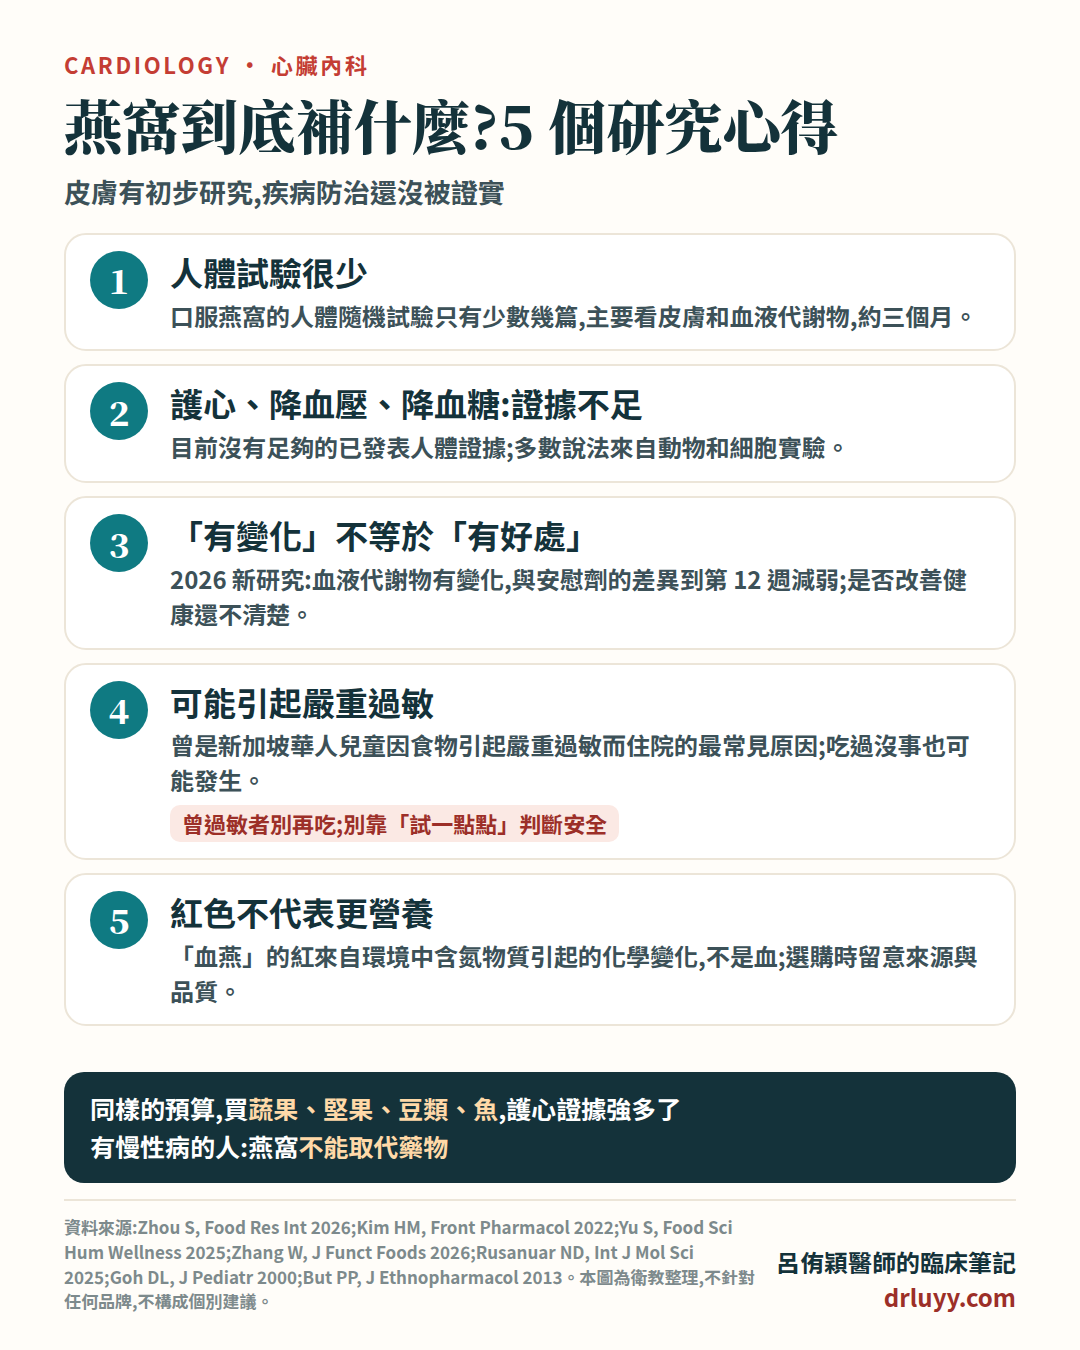
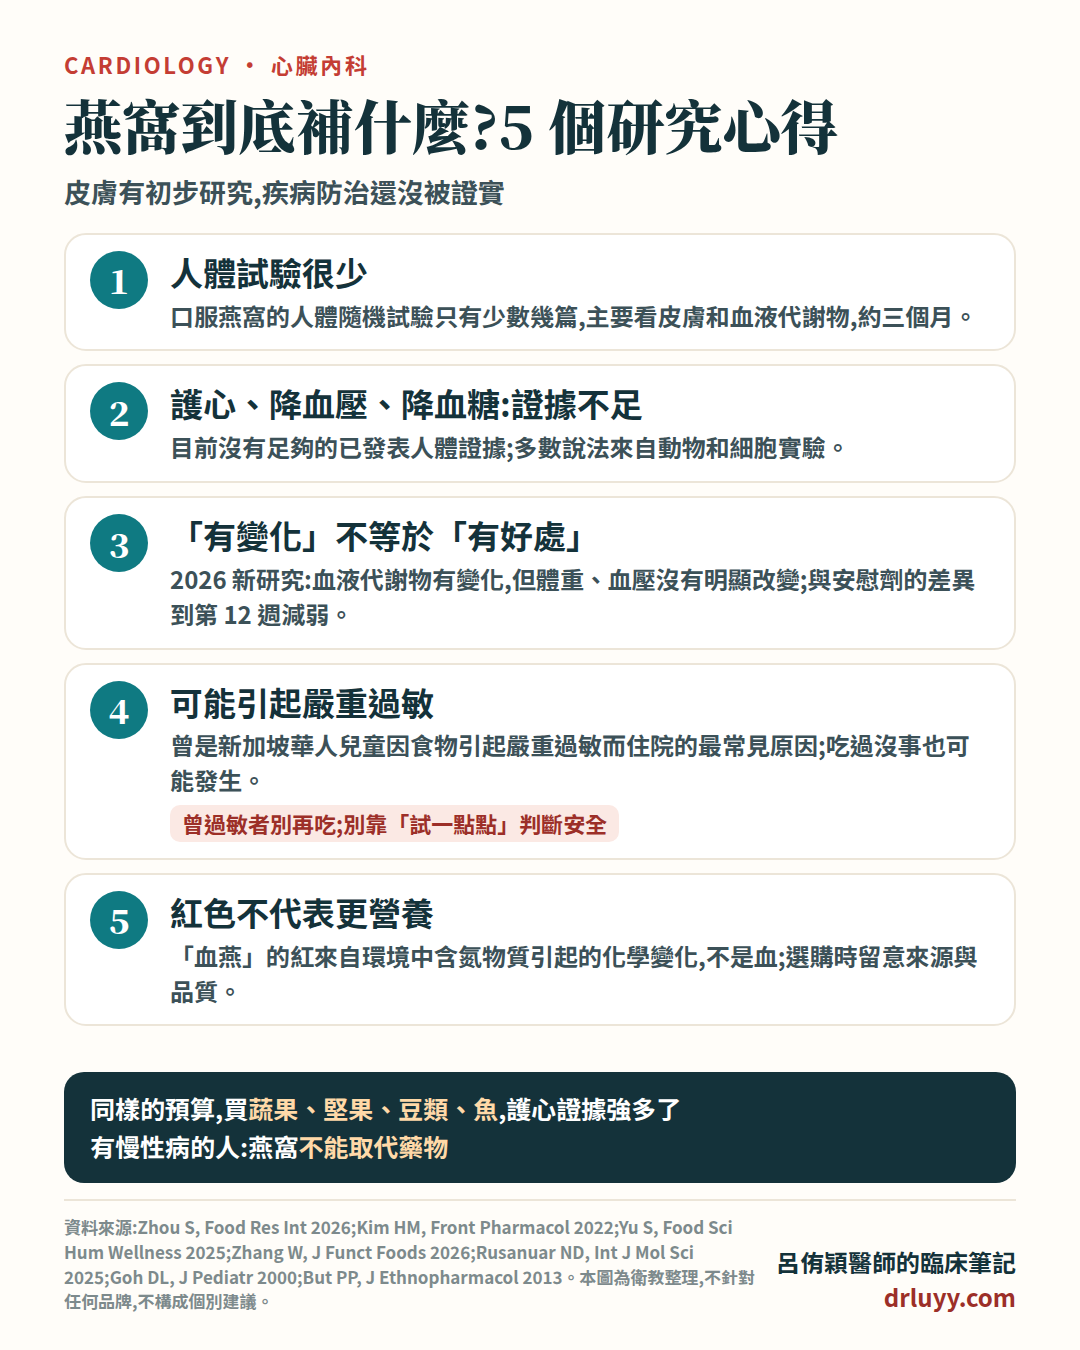
燕窩文章:依呂哥提供的全文補上 Zhou 2026 試驗設計、體重血壓結果、經費說明,加引同團隊回顧 — build 全站同步

Changed region(s): [[0.4583, 0.4044, 0.9167, 0.4356], [0.1528, 0.4356, 0.3056, 0.4667]]

diff --git a/posts/edible-birds-nest.html b/posts/edible-birds-nest.html
@@ -4,12 +4,12 @@
 <meta charset="UTF-8">
 <meta name="viewport" content="width=device-width, initial-scale=1.0">
 <title>燕窩到底補什麼?心臟科醫師翻完研究的心得 — 台安醫院心臟內科。呂侑穎醫師。臨床筆記</title>
-<meta name="description" content="逢年過節送燕窩很有面子,但燕窩到底補了什麼?心臟科醫師把研究翻了一遍:燕窩的人體隨機試驗只有少數幾篇,主要看皮膚和血液代謝物;2026 年最新的雙盲試驗發現血液代謝物有變化,但摘要沒有提供臨床指標的結果。護心、降血壓、降血糖,目前沒有足夠的人體證據。另外也整理了燕窩過敏、「血燕」為什麼是紅的、品質檢">
+<meta name="description" content="逢年過節送燕窩很有面子,但燕窩到底補了什麼?心臟科醫師把研究翻了一遍:燕窩的人體隨機試驗只有少數幾篇,主要看皮膚和血液代謝物;2026 年最新的雙盲試驗發現血液代謝物有變化,但體重、血壓沒有明顯改變,也沒有報告其他臨床指標。護心、降血壓、降血糖,目前沒有足夠的人體證據。另外也整理了燕窩過敏、「血燕」">
 <meta name="author" content="呂侑穎醫師">
 <meta name="robots" content="index, follow">
 <link rel="canonical" href="https://drluyy.com/posts/edible-birds-nest.html">
 <meta property="og:title" content="燕窩到底補什麼?心臟科醫師翻完研究的心得">
-<meta property="og:description" content="逢年過節送燕窩很有面子,但燕窩到底補了什麼?心臟科醫師把研究翻了一遍:燕窩的人體隨機試驗只有少數幾篇,主要看皮膚和血液代謝物;2026 年最新的雙盲試驗發現血液代謝物有變化,但摘要沒有提供臨床指標的結果。護心、降血壓、降血糖,目前沒有足夠的人體證據。另外也整理了燕窩過敏、「血燕」為什麼是紅的、品質檢">
+<meta property="og:description" content="逢年過節送燕窩很有面子,但燕窩到底補了什麼?心臟科醫師把研究翻了一遍:燕窩的人體隨機試驗只有少數幾篇,主要看皮膚和血液代謝物;2026 年最新的雙盲試驗發現血液代謝物有變化,但體重、血壓沒有明顯改變,也沒有報告其他臨床指標。護心、降血壓、降血糖,目前沒有足夠的人體證據。另外也整理了燕窩過敏、「血燕」">
 <meta property="og:type" content="article">
 <meta property="og:url" content="https://drluyy.com/posts/edible-birds-nest.html">
 <meta property="og:locale" content="zh_TW">
@@ -21,7 +21,7 @@
 <meta name="twitter:image" content="https://drluyy.com/img/og/edible-birds-nest.png">
 <link rel="icon" href="../favicon.svg" type="image/svg+xml">
 <script type="application/ld+json">
-{"@context":"https://schema.org","@type":"MedicalWebPage","headline":"燕窩到底補什麼?心臟科醫師翻完研究的心得","name":"燕窩到底補什麼?心臟科醫師翻完研究的心得","description":"逢年過節送燕窩很有面子,但燕窩到底補了什麼?心臟科醫師把研究翻了一遍:燕窩的人體隨機試驗只有少數幾篇,主要看皮膚和血液代謝物;2026 年最新的雙盲試驗發現血液代謝物有變化,但摘要沒有提供臨床指標的結果。護心、降血壓、降血糖,目前沒有足夠的人體證據。另外也整理了燕窩過敏、「血燕」為什麼是紅的、品質檢","url":"https://drluyy.com/posts/edible-birds-nest.html","inLanguage":"zh-TW","image":"https://drluyy.com/img/og/edible-birds-nest.png","author":{"@type":"Person","name":"呂侑穎","jobTitle":"心臟內科醫師","url":"https://drluyy.com/about.html","sameAs":["https://www.tahsda.org.tw/doctors/doctorcard.php?doctorid=058","https://www.threads.com/@aluminum001"]},"publisher":{"@type":"Organization","name":"台安醫院心臟內科。呂侑穎醫師。臨床筆記"},"dateModified":"2026-09-30","mainEntityOfPage":"https://drluyy.com/posts/edible-birds-nest.html","datePublished":"2026-09-30"}
+{"@context":"https://schema.org","@type":"MedicalWebPage","headline":"燕窩到底補什麼?心臟科醫師翻完研究的心得","name":"燕窩到底補什麼?心臟科醫師翻完研究的心得","description":"逢年過節送燕窩很有面子,但燕窩到底補了什麼?心臟科醫師把研究翻了一遍:燕窩的人體隨機試驗只有少數幾篇,主要看皮膚和血液代謝物;2026 年最新的雙盲試驗發現血液代謝物有變化,但體重、血壓沒有明顯改變,也沒有報告其他臨床指標。護心、降血壓、降血糖,目前沒有足夠的人體證據。另外也整理了燕窩過敏、「血燕」","url":"https://drluyy.com/posts/edible-birds-nest.html","inLanguage":"zh-TW","image":"https://drluyy.com/img/og/edible-birds-nest.png","author":{"@type":"Person","name":"呂侑穎","jobTitle":"心臟內科醫師","url":"https://drluyy.com/about.html","sameAs":["https://www.tahsda.org.tw/doctors/doctorcard.php?doctorid=058","https://www.threads.com/@aluminum001"]},"publisher":{"@type":"Organization","name":"台安醫院心臟內科。呂侑穎醫師。臨床筆記"},"dateModified":"2026-09-30","mainEntityOfPage":"https://drluyy.com/posts/edible-birds-nest.html","datePublished":"2026-09-30"}
 </script>
 <link rel="preconnect" href="https://fonts.googleapis.com">
 <link rel="preconnect" href="https://fonts.gstatic.com" crossorigin>
@@ -103,14 +103,16 @@ gtag('config', 'G-BC1Z8X6BQT');
 ▎今年這篇新研究說了什麼?
 
 2026 年《食品研究國際》(Food Research International)發表了一篇 12 週的雙盲、安慰劑對照隨機試驗:
-・受試者:109 位健康女性。
-・分成三組:安慰劑、每天 3.5 公克燕窩、每天 7 公克燕窩。
-・看的是:血液中的「代謝體」(可以想成血液裡成千上百種小分子的變化)。
+・受試者:北京 109 位 30–45 歲的健康女性,96 人完成試驗(88.1%);研究事先在中國臨床試驗註冊中心登錄。
+・分成三組:安慰劑、每天 3.5 公克燕窩、每天 7 公克燕窩。燕窩是加了冰糖的即食燕窩;安慰劑則用食品級海藻酸鈉、冰糖和水調成外觀口感相似的飲品。
+・主要看的是:血液中的「代謝體」(可以想成血液裡成千上百種小分子的變化)。
 
 結果:
 ・吃燕窩的人,血液代謝物出現了跟劑量有關的變化——例如支鏈胺基酸下降、某些磷脂質上升。
 ・這些差異大約在第 4 週出現、第 8 週最明顯,到第 12 週時反而變淡了。
-・目前可取得的摘要主要報告代謝體結果,沒有提供皮膚、免疫力、血壓、血脂、體重這些「身體有沒有變好」的指標結果;只看摘要,無法判斷這些指標有沒有改善。
+・研究也量了體重(身體質量指數)和血壓:各組都沒有明顯變化;研究期間沒有與燕窩相關的不良事件。
+・研究沒有報告血脂、血糖、皮膚、免疫力這些指標。
+・研究經費來自大學與燕窩業者合作的聯合實驗室,試驗用的燕窩產品也由業者提供;作者聲明資助單位沒有參與研究設計、資料分析和撰寫。產學合作在食品研究很常見,讀的時候知道這個背景就好。
 
 作者的結論是:燕窩可能有跟劑量相關的代謝效果,但還需要更多研究,釐清最適合的攝取量和它在生理上的意義。
 
@@ -130,6 +132,7 @@ gtag('config', 'G-BC1Z8X6BQT');
 小提醒:這幾篇研究都有燕窩相關產業參與,這在食品和保健品研究很常見,不代表結果一定有問題,但解讀時可以放在心上,也期待未來有更多獨立研究。
 
 【其他說法:大多還停在動物實驗】
+・連這個燕窩研究團隊在 2026 年發表的回顧文章也寫道:燕窩在傳統上被認為有助呼吸道、消化、產後恢復等,但支持這些效果的「受控臨床證據仍然有限」,抗氧化、調節免疫、護腦、護膚等作用「大多來自臨床前研究」。
 ・2021 年和 2026 年各有一篇探討燕窩與認知功能的系統性回顧,整理的都是動物實驗,不能直接推論到人。
 ・2025 年一篇整理燕窩與心血管危險因子的回顧指出:燕窩對心血管的好處目前還在「臨床前」階段,人體研究有限,對高血壓的作用「尚未被探討」;作者也提醒,燕窩不應取代血脂異常、肥胖、糖尿病的正規治療。
 ・增強免疫、護腦、護骨這些常見說法,目前的證據主要來自老鼠或細胞實驗。
@@ -197,11 +200,15 @@ gtag('config', 'G-BC1Z8X6BQT');
 
 ━━━━━━━━━━━━━━━━━━━━━━━
 
-⚠ 本文整理燕窩的人體隨機試驗、系統性與敘述性回顧、成分分析、過敏與食品安全研究,以及台灣相關法規,已逐一標明出處。2026 年的兩篇研究目前依摘要或書目資料整理,細節以原文為準。上述為研究整理與衛教說明,不是個別診療建議;本文不針對任何品牌。若你有慢性病、過敏體質,或想給孩子吃燕窩,請先諮詢你的醫師。
+⚠ 本文整理燕窩的人體隨機試驗、系統性與敘述性回顧、成分分析、過敏與食品安全研究,以及台灣相關法規,已逐一標明出處。2026 年《功能性食品期刊》的研究目前依書目資料整理,細節以原文為準。上述為研究整理與衛教說明,不是個別診療建議;本文不針對任何品牌。若你有慢性病、過敏體質,或想給孩子吃燕窩,請先諮詢你的醫師。
 
 參考文獻:
 ・Zhou S, et al. Metabolic effects of dietary edible bird's nest intake: a 12-week double-blind randomized controlled metabolomics study. Food Res Int. 2026;240:119608.
 <a href="https://pubmed.ncbi.nlm.nih.gov/42409548/" target="_blank" rel="noopener">https://pubmed.ncbi.nlm.nih.gov/42409548/</a>
+・Zhou S, et al. Edible bird's nest: culture, science, and beyond: a narrative review. J Ethnic Foods. 2026;13:21.
+<a href="https://doi.org/10.1186/s42779-026-00314-9" target="_blank" rel="noopener">https://doi.org/10.1186/s42779-026-00314-9</a>
+・中國臨床試驗註冊中心。ChiCTR2400082695.
+<a href="https://www.chictr.org.cn/showprojEN.html?proj=213075" target="_blank" rel="noopener">https://www.chictr.org.cn/showprojEN.html?proj=213075</a>
 ・Kim HM, et al. Anti-wrinkle efficacy of edible bird's nest extract: a randomized, double-blind, placebo-controlled, comparative study. Front Pharmacol. 2022;13:843469.
 <a href="https://pubmed.ncbi.nlm.nih.gov/35355724/" target="_blank" rel="noopener">https://pubmed.ncbi.nlm.nih.gov/35355724/</a>
 ・Yu S, et al. The antiaging effect of edible bird's nest on the skin of healthy women: a randomized controlled trial. Food Sci Hum Wellness. 2025(2025-11-20 線上發表).

diff --git a/index.html b/index.html
@@ -199,7 +199,7 @@ gtag('config', 'G-BC1Z8X6BQT');
 <div class="card-header">
 <span class="card-tag news">醫療新知</span>
 <div class="card-title">燕窩到底補什麼?心臟科醫師翻完研究的心得</div>
-<div class="card-subtitle">逢年過節送燕窩很有面子,但燕窩到底補了什麼?心臟科醫師把研究翻了一遍:燕窩的人體隨機試驗只有少數幾篇,主要看皮膚和血液代謝物;2026 年最新的雙盲試驗發現血液代謝物有變化,但摘要沒有提供臨床指標的結果。護心、降血壓、降血糖,目前沒有足夠的人體證據。另外也整理了燕窩過敏、「血燕」為什麼是紅的、品質檢驗研究,以及台灣的進口規定。結論:皮膚有初步研究,疾病防治還沒被證實——當美食很好,別把它當藥。</div>
+<div class="card-subtitle">逢年過節送燕窩很有面子,但燕窩到底補了什麼?心臟科醫師把研究翻了一遍:燕窩的人體隨機試驗只有少數幾篇,主要看皮膚和血液代謝物;2026 年最新的雙盲試驗發現血液代謝物有變化,但體重、血壓沒有明顯改變,也沒有報告其他臨床指標。護心、降血壓、降血糖,目前沒有足夠的人體證據。另外也整理了燕窩過敏、「血燕」為什麼是紅的、品質檢驗研究,以及台灣的進口規定。結論:皮膚有初步研究,疾病防治還沒被證實——當美食很好,別把它當藥。</div>
 <div class="card-meta"><span>實證整理</span><span>人體試驗 + 食品安全研究 + 台灣法規</span></div>
 </div>
 <div class="card-footer"><span class="read-btn">閱讀全文 →</span></div>

diff --git a/posts.html b/posts.html
@@ -72,7 +72,7 @@ gtag('config', 'G-BC1Z8X6BQT');
 <div class="card-header">
 <span class="card-tag news">醫療新知</span>
 <div class="card-title">燕窩到底補什麼?心臟科醫師翻完研究的心得</div>
-<div class="card-subtitle">逢年過節送燕窩很有面子,但燕窩到底補了什麼?心臟科醫師把研究翻了一遍:燕窩的人體隨機試驗只有少數幾篇,主要看皮膚和血液代謝物;2026 年最新的雙盲試驗發現血液代謝物有變化,但摘要沒有提供臨床指標的結果。護心、降血壓、降血糖,目前沒有足夠的人體證據。另外也整理了燕窩過敏、「血燕」為什麼是紅的、品質檢驗研究,以及台灣的進口規定。結論:皮膚有初步研究,疾病防治還沒被證實——當美食很好,別把它當藥。</div>
+<div class="card-subtitle">逢年過節送燕窩很有面子,但燕窩到底補了什麼?心臟科醫師把研究翻了一遍:燕窩的人體隨機試驗只有少數幾篇,主要看皮膚和血液代謝物;2026 年最新的雙盲試驗發現血液代謝物有變化,但體重、血壓沒有明顯改變,也沒有報告其他臨床指標。護心、降血壓、降血糖,目前沒有足夠的人體證據。另外也整理了燕窩過敏、「血燕」為什麼是紅的、品質檢驗研究,以及台灣的進口規定。結論:皮膚有初步研究,疾病防治還沒被證實——當美食很好,別把它當藥。</div>
 <div class="card-meta"><span>實證整理</span><span>人體試驗 + 食品安全研究 + 台灣法規</span></div>
 </div>
 <div class="card-footer"><span class="read-btn">閱讀全文 →</span></div>

diff --git a/news.html b/news.html
@@ -74,7 +74,7 @@ gtag('config', 'G-BC1Z8X6BQT');
 <div class="card-header">
 <span class="card-tag news">醫療新知</span>
 <div class="card-title">燕窩到底補什麼?心臟科醫師翻完研究的心得</div>
-<div class="card-subtitle">逢年過節送燕窩很有面子,但燕窩到底補了什麼?心臟科醫師把研究翻了一遍:燕窩的人體隨機試驗只有少數幾篇,主要看皮膚和血液代謝物;2026 年最新的雙盲試驗發現血液代謝物有變化,但摘要沒有提供臨床指標的結果。護心、降血壓、降血糖,目前沒有足夠的人體證據。另外也整理了燕窩過敏、「血燕」為什麼是紅的、品質檢驗研究,以及台灣的進口規定。結論:皮膚有初步研究,疾病防治還沒被證實——當美食很好,別把它當藥。</div>
+<div class="card-subtitle">逢年過節送燕窩很有面子,但燕窩到底補了什麼?心臟科醫師把研究翻了一遍:燕窩的人體隨機試驗只有少數幾篇,主要看皮膚和血液代謝物;2026 年最新的雙盲試驗發現血液代謝物有變化,但體重、血壓沒有明顯改變,也沒有報告其他臨床指標。護心、降血壓、降血糖,目前沒有足夠的人體證據。另外也整理了燕窩過敏、「血燕」為什麼是紅的、品質檢驗研究,以及台灣的進口規定。結論:皮膚有初步研究,疾病防治還沒被證實——當美食很好,別把它當藥。</div>
 <div class="card-meta">
 <span>實證整理</span>
 <span>人體試驗 + 食品安全研究 + 台灣法規</span>
